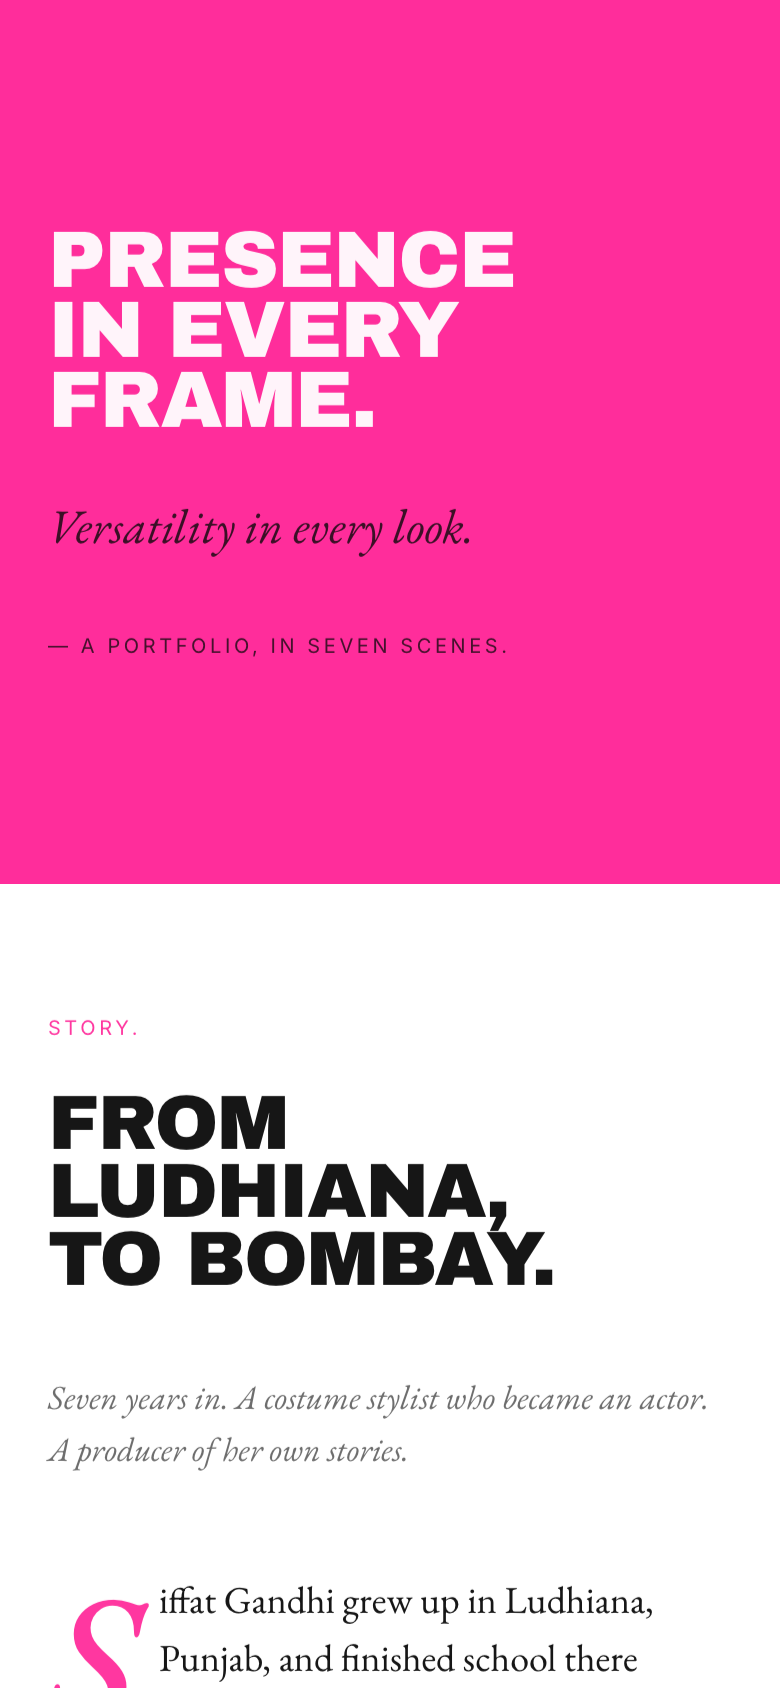
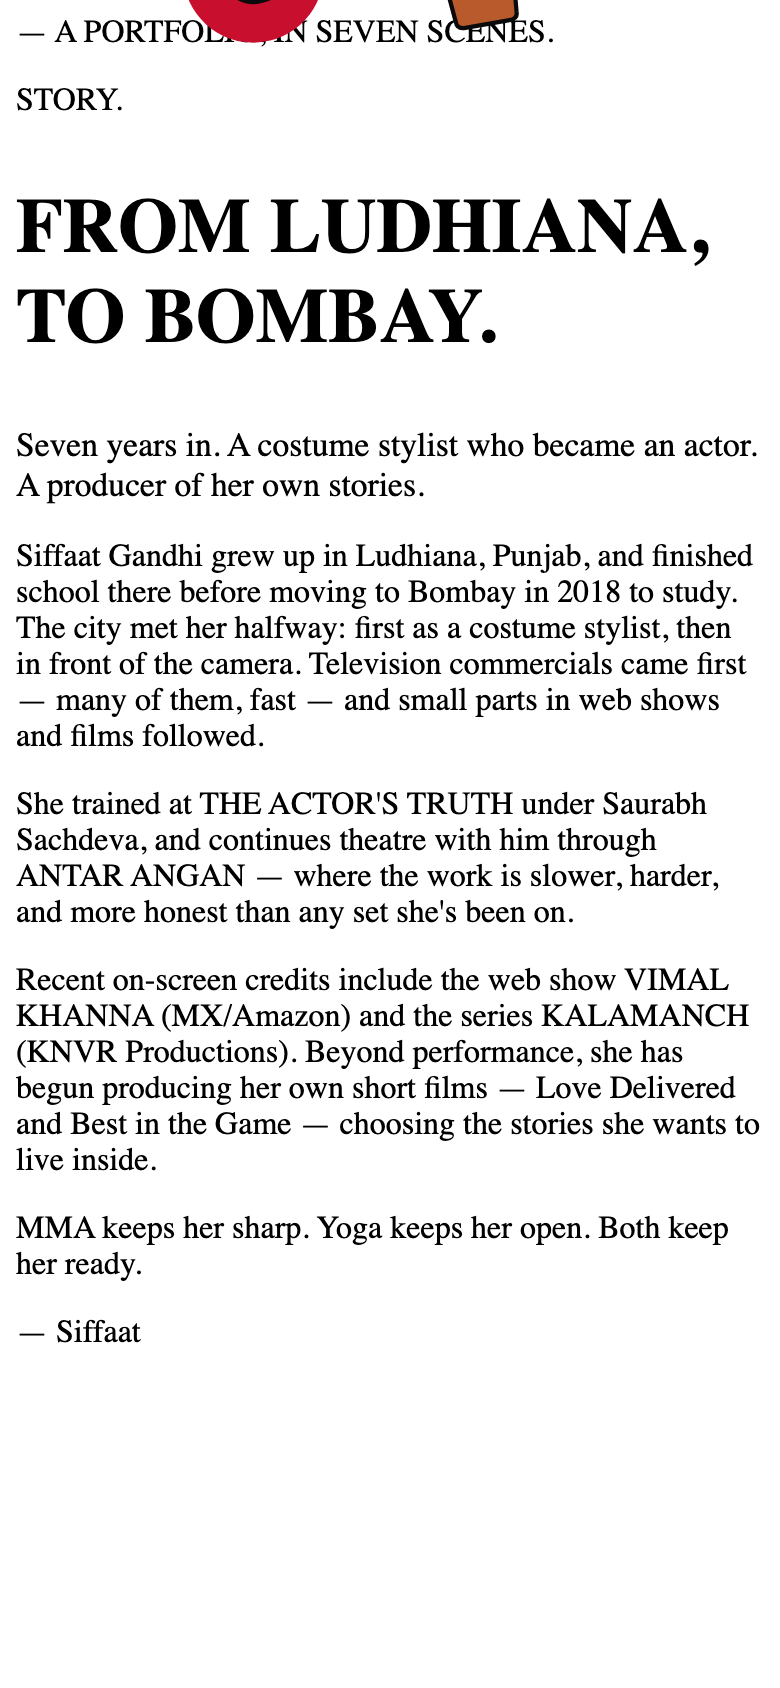
Rename Siffat → Siffaat across visible content
Her name is Siffaat (double-a), not Siffat. Updated:
- All display headlines: SIFFAT → SIFFAAT
- Bio name, story body, signature
- SG block badge, footer, contact, fin, hero credit stack
- Metadata title/description, OG, Twitter
- README headings + caption text

Kept as-is (real accounts):
- siffatgandhi@gmail.com
- @siffat.gandhi instagram handle
- siffat-spotlight repo/folder name

Re-captured all README screenshots to reflect new spelling.

diff --git a/lib/content.ts b/lib/content.ts
@@ -1,4 +1,4 @@
-// Canonical content for the Siffat Gandhi Spotlight site.
+// Canonical content for the Siffaat Gandhi Spotlight site.
 // Ported from /Users/piyushmishra/Desktop/siffat-portfolio/build/v3-content.json
 
 export type Bio = {
@@ -71,7 +71,7 @@ export type AuditionReel = {
 };
 
 export const bio: Bio = {
-  name: "Siffat Gandhi",
+  name: "Siffaat Gandhi",
   tagline: "Presence in every frame. Versatility in every look.",
   age: 25,
   height: "5'5\"",
@@ -105,12 +105,12 @@ export const storyCopy: StoryCopy = {
   dek: "Seven years in. A costume stylist who became an actor. A producer of her own stories.",
   dropCap: "S",
   bodyParagraphs: [
-    "Siffat Gandhi grew up in Ludhiana, Punjab, and finished school there before moving to Bombay in 2018 to study. The city met her halfway: first as a costume stylist, then in front of the camera. Television commercials came first — many of them, fast — and small parts in web shows and films followed.",
+    "Siffaat Gandhi grew up in Ludhiana, Punjab, and finished school there before moving to Bombay in 2018 to study. The city met her halfway: first as a costume stylist, then in front of the camera. Television commercials came first — many of them, fast — and small parts in web shows and films followed.",
     "She trained at THE ACTOR'S TRUTH under Saurabh Sachdeva, and continues theatre with him through ANTAR ANGAN — where the work is slower, harder, and more honest than any set she's been on.",
     "Recent on-screen credits include the web show VIMAL KHANNA (MX/Amazon) and the series KALAMANCH (KNVR Productions). Beyond performance, she has begun producing her own short films — Love Delivered and Best in the Game — choosing the stories she wants to live inside.",
     "MMA keeps her sharp. Yoga keeps her open. Both keep her ready.",
   ],
-  signature: "— Siffat",
+  signature: "— Siffaat",
 };
 
 export const webSeries: WebSeries[] = [
@@ -120,7 +120,7 @@ export const webSeries: WebSeries[] = [
     year: "Recent",
     isAnchor: true,
     url: null,
-    note: "Title voice-transcribed; verify spelling with Siffat",
+    note: "Title voice-transcribed; verify spelling with Siffaat",
   },
   {
     title: "KALAMANCH",
@@ -133,12 +133,12 @@ export const webSeries: WebSeries[] = [
 export const shortFilmsProduced: ShortFilm[] = [
   {
     title: "LOVE DELIVERED",
-    credit: "Produced & performed by Siffat Gandhi",
+    credit: "Produced & performed by Siffaat Gandhi",
     logline: null,
   },
   {
     title: "BEST IN THE GAME",
-    credit: "Produced & performed by Siffat Gandhi",
+    credit: "Produced & performed by Siffaat Gandhi",
     logline: null,
   },
 ];

diff --git a/app/components/Hero.tsx b/app/components/Hero.tsx
@@ -3,7 +3,7 @@ import Image from "next/image";
 /**
  * Hero — i-D style.
  * Full-bleed cover-suit portrait on right. Massive pink display caps overlay
- * "SIFFAT, BY SIFFAT, FOR SIFFAT." Credit stack sits in the negative space
+ * "SIFFAAT, BY SIFFAAT, FOR SIFFAAT." Credit stack sits in the negative space
  * next to the SGBlock badge.
  */
 export default function Hero() {
@@ -16,7 +16,7 @@ export default function Hero() {
       <div className="absolute inset-0">
         <Image
           src="/photos/cover-suit.jpg"
-          alt="Siffat Gandhi — Spotlight cover"
+          alt="Siffaat Gandhi — Spotlight cover"
           fill
           priority
           sizes="100vw"
@@ -31,14 +31,14 @@ export default function Hero() {
         style={{ top: 18 }}
       >
         <p className="font-inter text-[10px] md:text-[11px] uppercase tracking-widest text-ink/85 leading-[1.55]">
-          WRITTEN BY SIFFAT GANDHI
+          WRITTEN BY SIFFAAT GANDHI
           <br />
           PHOTOGRAPHY VARIOUS
           <br />
           MUMBAI · MMXXVI
         </p>
         <p className="mt-5 font-inter text-[10px] md:text-[11px] uppercase tracking-widest text-ink/65">
-          SIFFATGANDHI.COM / SPOTLIGHT
+          SIFFAATGANDHI.COM / SPOTLIGHT
         </p>
       </div>
 
@@ -52,11 +52,11 @@ export default function Hero() {
           textAlign: "right",
         }}
       >
-        SIFFAT,
+        SIFFAAT,
         <br />
-        BY SIFFAT,
+        BY SIFFAAT,
         <br />
-        FOR SIFFAT.
+        FOR SIFFAAT.
       </h1>
 
       {/* Scroll cue */}

diff --git a/app/layout.tsx b/app/layout.tsx
@@ -25,20 +25,20 @@ const display = Archivo_Black({
 });
 
 export const metadata: Metadata = {
-  title: "Siffat Gandhi — Spotlight",
+  title: "Siffaat Gandhi — Spotlight",
   description:
-    "Spotlight — Siffat Gandhi. A long-form editorial portfolio: from Ludhiana to Bombay. Web shows, films, music videos, brand work, and self-tapes.",
-  metadataBase: new URL("https://siffatgandhi.com"),
+    "Spotlight — Siffaat Gandhi. A long-form editorial portfolio: from Ludhiana to Bombay. Web shows, films, music videos, brand work, and self-tapes.",
+  metadataBase: new URL("https://siffaatgandhi.com"),
   openGraph: {
-    title: "Siffat Gandhi — Spotlight",
+    title: "Siffaat Gandhi — Spotlight",
     description:
-      "Presence in every frame. Versatility in every look. A single-page editorial portfolio for actor Siffat Gandhi.",
+      "Presence in every frame. Versatility in every look. A single-page editorial portfolio for actor Siffaat Gandhi.",
     images: ["/photos/cover-suit.jpg"],
     type: "website",
   },
   twitter: {
     card: "summary_large_image",
-    title: "Siffat Gandhi — Spotlight",
+    title: "Siffaat Gandhi — Spotlight",
     description: "Presence in every frame. Versatility in every look.",
     images: ["/photos/cover-suit.jpg"],
   },

diff --git a/app/components/SGBlock.tsx b/app/components/SGBlock.tsx
@@ -1,13 +1,13 @@
 /**
  * Sticky two-square brand badge in the top-left corner.
  * Top: cyan square with serif italic "SG"
- * Bottom: hot-pink square with display caps "siffat"
+ * Bottom: hot-pink square with display caps "siffaat"
  * Mirrors i-D's stacked i- / -d logo block.
  */
 export default function SGBlock() {
   return (
     <div
-      aria-label="Siffat Gandhi — Spotlight"
+      aria-label="Siffaat Gandhi — Spotlight"
       className="fixed left-0 top-0 z-50 hidden md:flex md:flex-col"
       style={{ width: 150 }}
     >
@@ -30,7 +30,7 @@ export default function SGBlock() {
           className="font-display lowercase leading-none"
           style={{ fontSize: "42px", letterSpacing: "-0.04em" }}
         >
-          siffat
+          siffaat
         </span>
       </div>
     </div>

diff --git a/app/page.tsx b/app/page.tsx
@@ -61,7 +61,7 @@ export default function Home() {
 
       <PinkBlockQuote
         density="tight"
-        attribution="— SIFFAT GANDHI, ON HER PRACTICE"
+        attribution="— SIFFAAT GANDHI, ON HER PRACTICE"
       >
         It&rsquo;s not performance —
         <br />
@@ -72,7 +72,7 @@ export default function Home() {
 
       <PhotoPyramid
         src="/photos/bindi.jpg"
-        alt="Siffat — bindi portrait, repeated"
+        alt="Siffaat — bindi portrait, repeated"
         caption="ONE FRAME. EIGHTY-FIVE TAKES."
       />
 

diff --git a/app/components/Footer.tsx b/app/components/Footer.tsx
@@ -3,7 +3,7 @@ export default function Footer() {
     <footer className="bg-paper">
       <div className="mx-auto max-w-[1600px] px-6 py-10 md:pl-[180px] md:pr-12">
         <p className="text-center font-garamond italic text-warmGrey text-sm md:text-base">
-          A Siffat Gandhi Spotlight
+          A Siffaat Gandhi Spotlight
           <span className="mx-2 text-pink">·</span>
           Mumbai
           <span className="mx-2 text-pink">·</span>

diff --git a/app/components/ShortFilms.tsx b/app/components/ShortFilms.tsx
@@ -46,7 +46,7 @@ export default function ShortFilms() {
                 {f.title}
               </h3>
               <p className="mt-6 font-inter text-[10px] uppercase tracking-widest text-warmGrey">
-                Produced &amp; performed by Siffat Gandhi
+                Produced &amp; performed by Siffaat Gandhi
               </p>
             </article>
           ))}

diff --git a/app/components/Contact.tsx b/app/components/Contact.tsx
@@ -26,7 +26,7 @@ export default function Contact() {
 
         <div className="mt-14 border-t hairline pt-12">
           <p className="text-center font-display uppercase text-3xl md:text-5xl tracking-tight2 text-ink">
-            SIFFAT GANDHI
+            SIFFAAT GANDHI
           </p>
 
           <table className="mx-auto mt-10 font-inter text-sm md:text-base">

diff --git a/app/components/Fin.tsx b/app/components/Fin.tsx
@@ -69,7 +69,7 @@ export default function Fin() {
         </div>
 
         <p className="mt-12 text-center font-inter text-[10px] uppercase tracking-widest text-warmGrey">
-          Back to top — siffatgandhi.com / spotlight
+          Back to top — siffaatgandhi.com / spotlight
         </p>
       </div>
     </section>

diff --git a/README.md b/README.md
@@ -1,10 +1,10 @@
 <div align="center">
 
-# SIFFAT, BY SIFFAT, FOR SIFFAT.
+# SIFFAAT, BY SIFFAAT, FOR SIFFAAT.
 
 ### A SPOTLIGHT · Nº 01 · MUMBAI · MMXXVI
 
-*A long-scroll editorial site for actor & model **Siffat Gandhi**.*
+*A long-scroll editorial site for actor & model **Siffaat Gandhi**.*
 *Built like a magazine. Lives on the web.*
 
 ![Hero](screenshots/readme/01-hero.png)
@@ -20,7 +20,7 @@
 
 ## INTRO.
 
-This is the source for [**siffatgandhi.com**](https://siffatgandhi.com) — a single-page, scroll-driven, magazine-style spotlight for **Siffat Gandhi**, a Mumbai-based actor, model, and producer of her own short films.
+This is the source for [**siffatgandhi.com**](https://siffatgandhi.com) — a single-page, scroll-driven, magazine-style spotlight for **Siffaat Gandhi**, a Mumbai-based actor, model, and producer of her own short films.
 
 The reference is i-D Magazine's *Spotlight* series: editorial typography, full-bleed photography, hand-drawn stickers, bold colour blocks, and the kind of pacing you only get from a print designer.
 
@@ -48,7 +48,7 @@ Hot-pink full-bleed block. *"Presence in every frame. Versatility in every look.
 
 ![Story](screenshots/readme/03-story.png)
 
-From Ludhiana to Bombay. Drop-cap *S* in oxblood. Single-column intro, then a 2-column body. Italics in EB Garamond. Signed off — Siffat.
+From Ludhiana to Bombay. Drop-cap *S* in oxblood. Single-column intro, then a 2-column body. Italics in EB Garamond. Signed off — Siffaat.
 
 ### Nº 04 — Photo Trio
 
@@ -197,7 +197,7 @@ siffat-spotlight/
 │       ├── LiteYouTube.tsx      # YouTube facade
 │       └── stickers/            # SVG sticker components
 ├── lib/
-│   ├── content.ts               # Typed Siffat bio + credits
+│   ├── content.ts               # Typed Siffaat bio + credits
 │   └── useFadeIn.ts             # IntersectionObserver hook
 ├── public/
 │   ├── photos/                  # Warm-graded portraits
@@ -262,6 +262,6 @@ The site is **fully static** — no Node, no PHP, no database. Once `out/` is on
 
 ### FIN.
 
-*A SIFFAT GANDHI SPOTLIGHT · MUMBAI · MMXXVI*
+*A SIFFAAT GANDHI SPOTLIGHT · MUMBAI · MMXXVI*
 
 </div>
